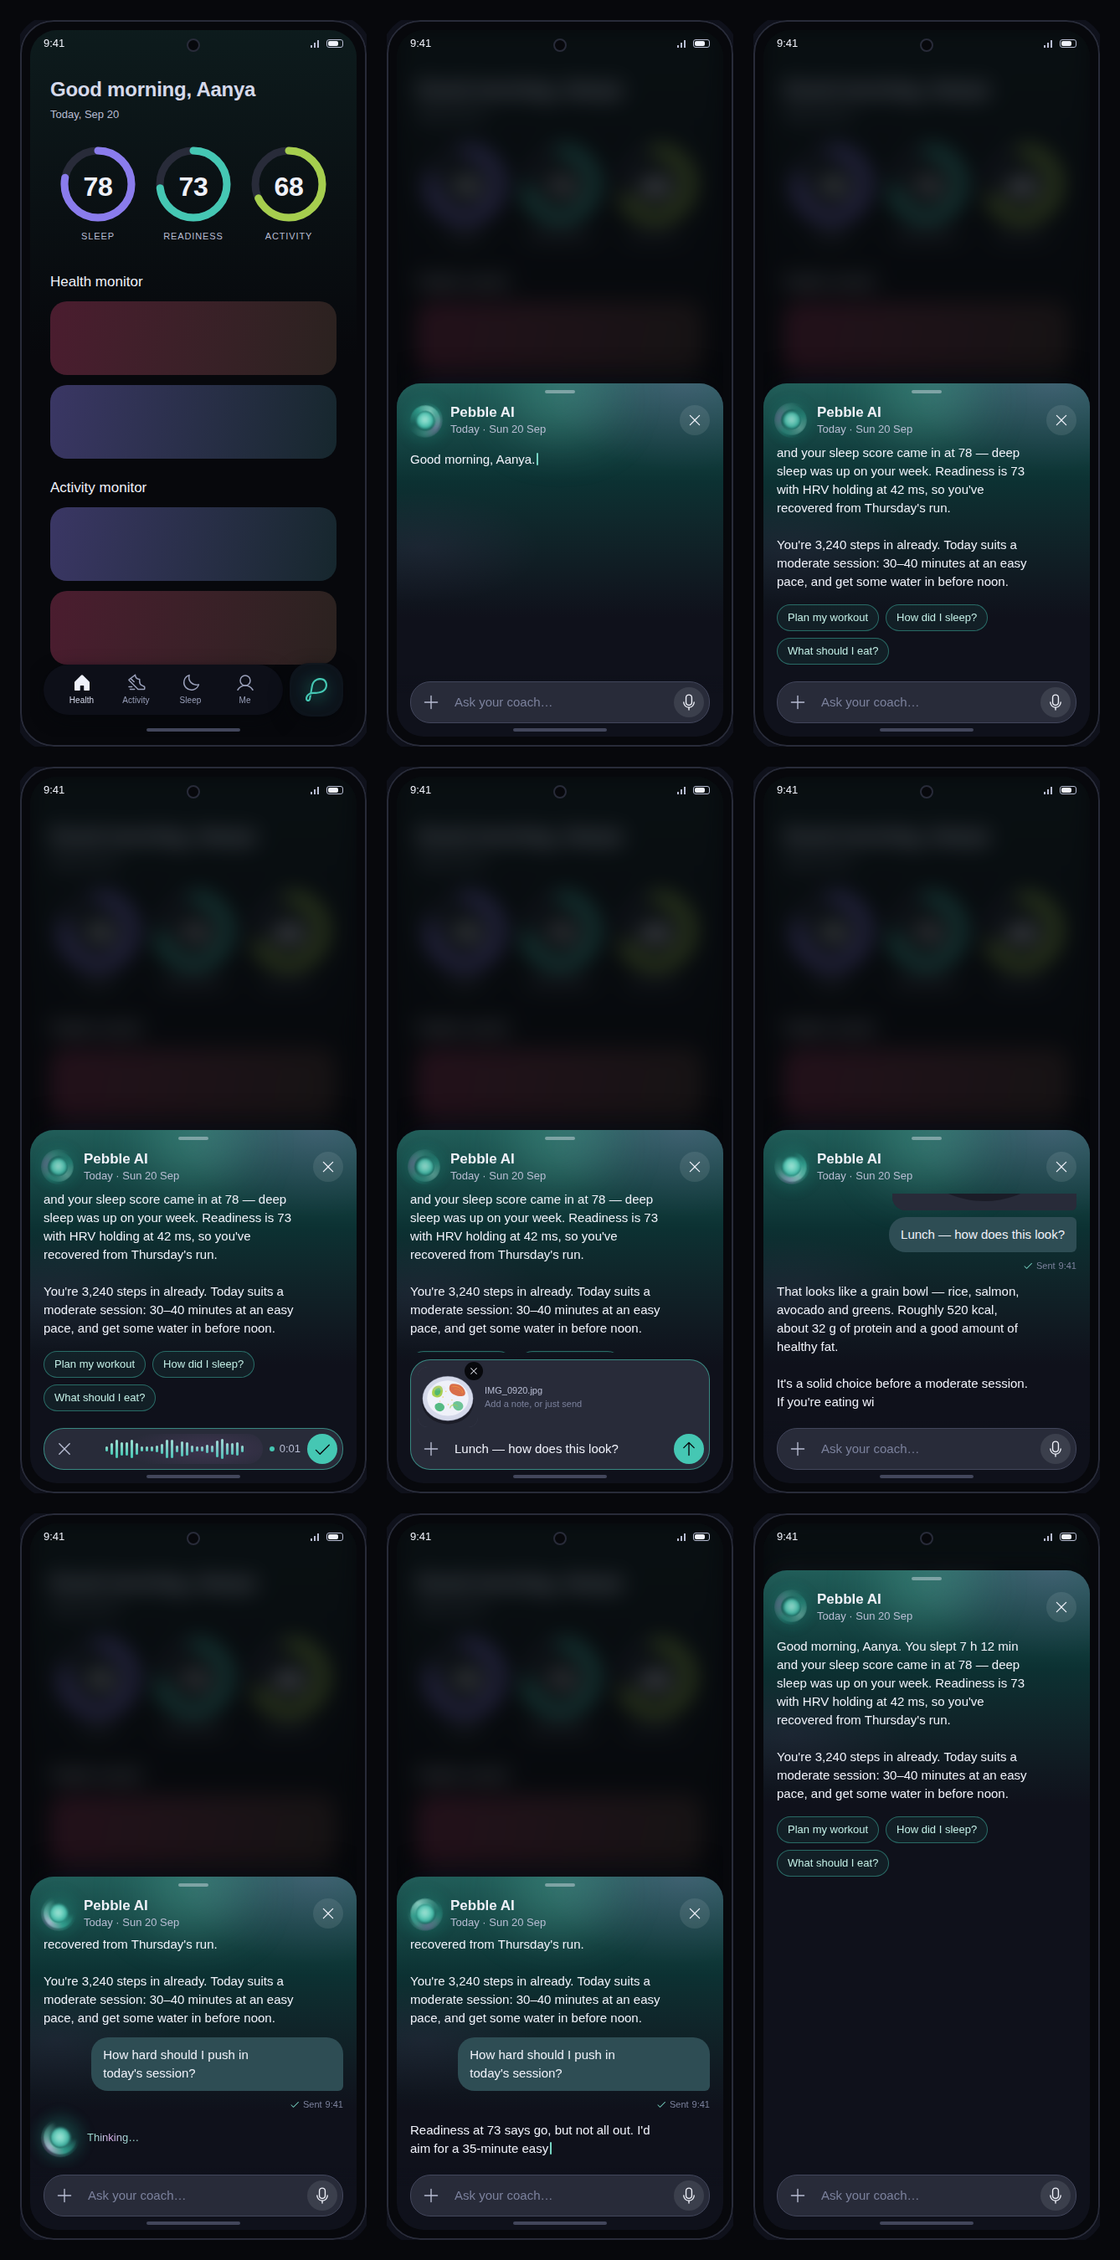
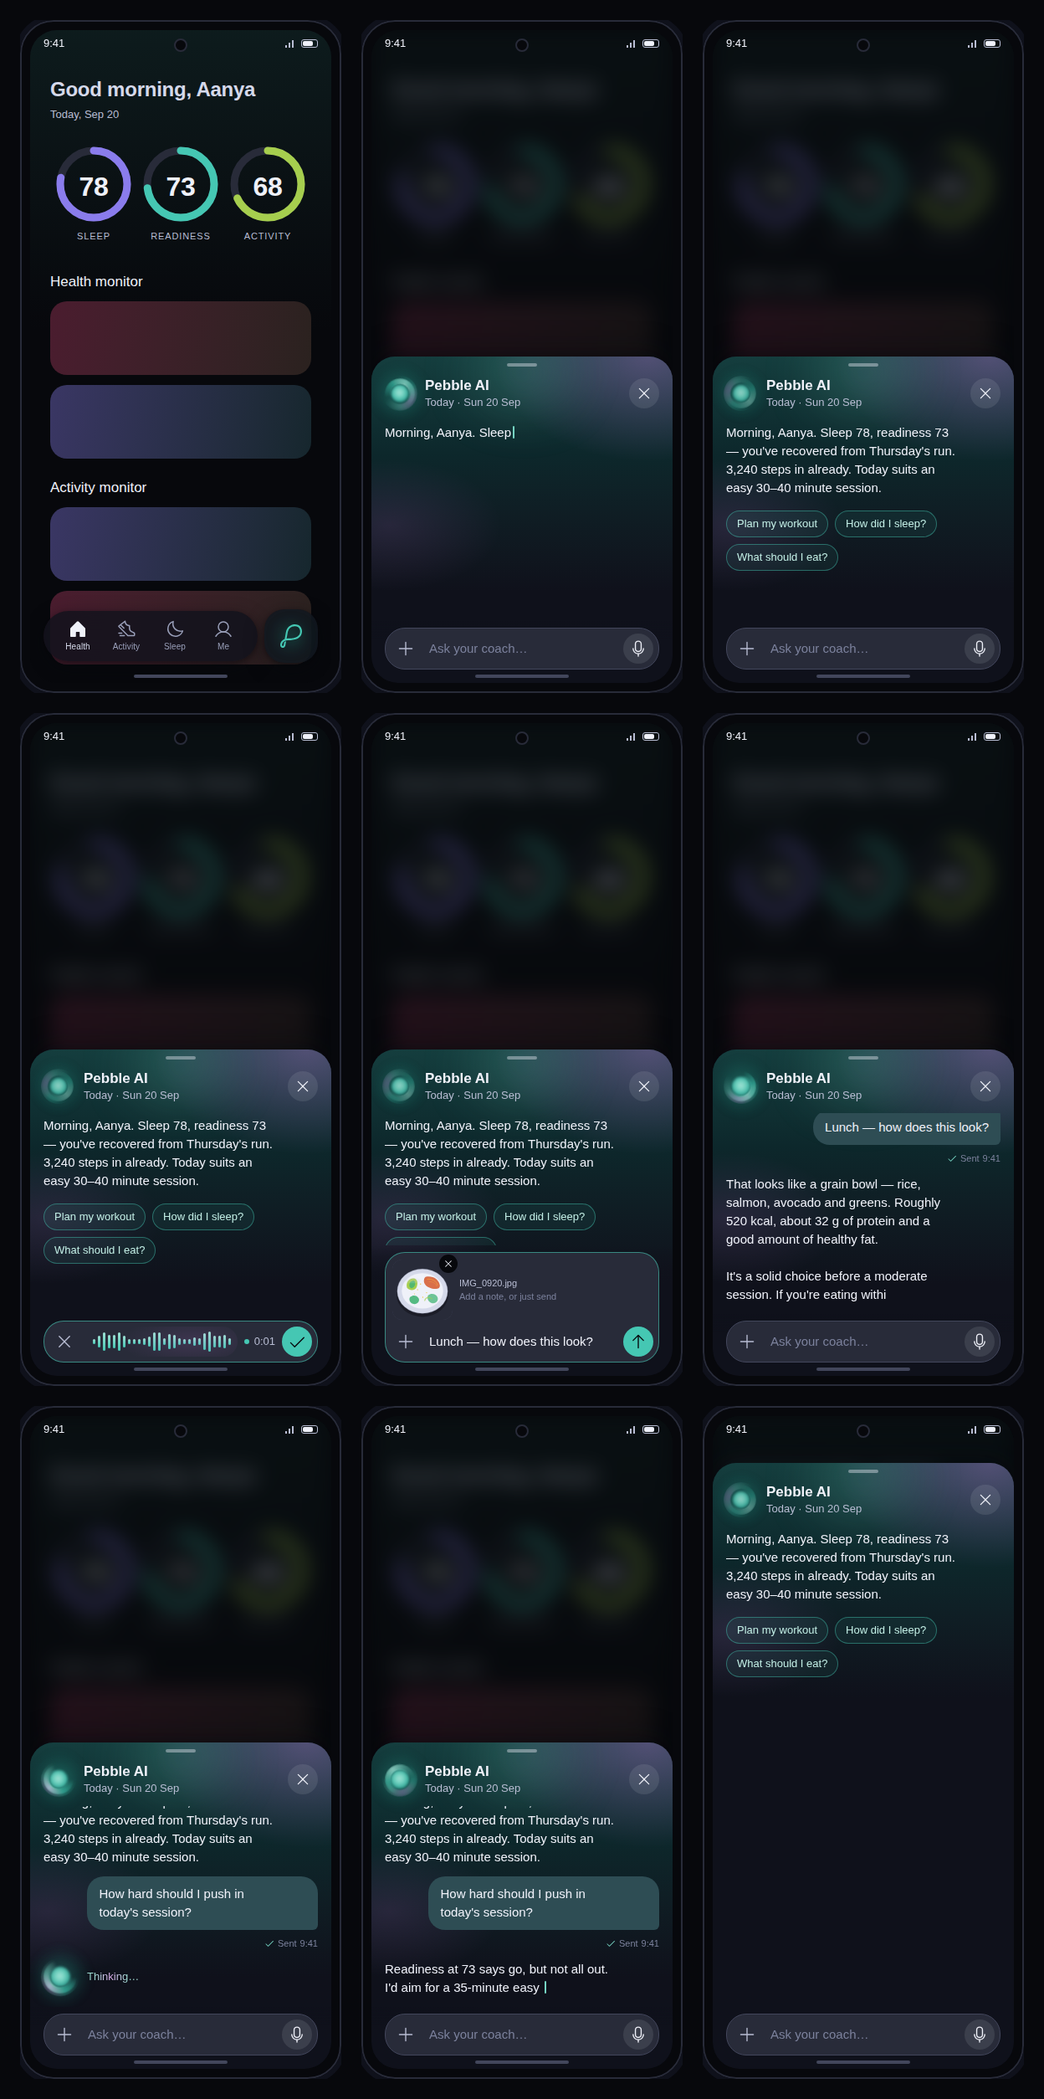
Fold owner round 1 into the AI coach prototype
Frame back to the app's 360 x 780 with the dock re-cut to fit (pill 256,
tabs 58, AI unit untouched). More orchid and less teal in the sheet's
top gradient. Opening summary shortened to one paragraph. Chips and
tap-to-record kept as decided. Spec, index, changelog, handoff and the
state overview render updated to match.

Claude-Session: https://claude.ai/code/session_01UN768iFaLiBkN9h35ZSA5W

diff --git a/AI Coach/ai-coach.html b/AI Coach/ai-coach.html
@@ -136,18 +136,16 @@ body{
 .panel .note{margin:12px 0 0;font:400 11px/16px var(--font-text);color:var(--text-3)}
 
 /* ═══ 3. PHONE ═══════════════════════════════════════════════════════════════
-   FLAG — the screen is 390 × 844 here, not the 360 × 780 the other
-   prototypes use. The navigation dock component the owner supplied is laid
-   out for a 390 frame (286 + 8 + 64 = 358 = 390 − 2 × 16); at 360 the pill
-   would need re-cutting. Using the dock's own frame keeps the component
-   untouched. Say if the app frame should win instead.
+   360 × 780, the app's frame. SETTLED 2026-09-20: the owner chose the app
+   frame over the dock component's 390, so the dock is re-cut below to fit
+   (see section 5). components/pebble-nav.html still carries the 390 cut.
    ─────────────────────────────────────────────────────────────────────────── */
 .phone{
   flex:0 0 auto;border-radius:40px;background:var(--neutral-900);
   border:2px solid var(--neutral-700);outline:6px solid var(--neutral-800);padding:10px;
 }
 .screen{
-  position:relative;width:390px;height:844px;border-radius:32px;overflow:hidden;
+  position:relative;width:360px;height:780px;border-radius:32px;overflow:hidden;
   background:var(--surface-app);
 }
 /* punch-hole selfie camera, as the other prototypes draw it */
@@ -204,18 +202,24 @@ body{
 .home .card:nth-of-type(even){background-image:linear-gradient(100deg, color-mix(in srgb, var(--crimson-400) 28%, transparent), color-mix(in srgb, var(--tangerine-400) 12%, transparent))}
 .home .sechead{margin-top:12px;font:500 17px/22px var(--font-text);color:var(--text-1)}
 
-/* ═══ 5. NAVIGATION DOCK — components/pebble-nav.html, 2026-09-20, verbatim ══
+/* ═══ 5. NAVIGATION DOCK — components/pebble-nav.html, re-cut for 360 ════════
    Two units centred on one axis, 8px apart, filling the 16px gutter exactly:
-     nav pill  286 × 60   (tabs 63 × 60, 2px between, 14px side padding)
-     AI unit    64 × 64   (overhangs the pill 2px top and bottom)
+     nav pill  256 × 60   (tabs 58 × 60, no gap, 12px side padding)
+     AI unit    64 × 64   (unchanged — the owner's Figma frame; overhangs the
+                           pill 2px top and bottom)
+     256 + 8 + 64 = 328 = 360 − 2 × 16
+   FLAG — the component's 390 cut is pill 286 / tabs 63 / 2px gap / 14px
+   padding. Bringing it to 360 takes 30px out of the pill, all from the tabs:
+   58 wide with the 2px gap dropped and the padding 14 → 12 so the tab lands
+   on a whole pixel. Material, glyphs, labels, the AI unit: untouched.
    Positioned absolutely here instead of sticky, because the home screen
-   scrolls inside the phone rather than the page. Nothing else changed.
+   scrolls inside the phone rather than the page.
    ─────────────────────────────────────────────────────────────────────────── */
 .nav-slot{
   position:absolute;left:0;right:0;bottom:24px;z-index:55;
   display:flex;justify-content:center;pointer-events:none;
 }
-.nav-dock{display:flex;align-items:center;gap:var(--space-8);width:358px;pointer-events:auto}
+.nav-dock{display:flex;align-items:center;gap:var(--space-8);width:328px;pointer-events:auto}
 .nav-dock > *{
   background:color-mix(in srgb, var(--neutral-800) 80%, transparent);   /* neutral 800 @ 80% */
   -webkit-backdrop-filter:blur(26px);          /* Figma background blur 52 */
@@ -224,12 +228,12 @@ body{
              0 2px 6px color-mix(in srgb, var(--neutral-900) 32%, transparent);
 }
 .pebble-nav{
-  display:flex;align-items:center;gap:var(--space-2);
-  width:286px;height:60px;flex:none;padding:0 14px;border-radius:var(--radius-full);
+  display:flex;align-items:center;gap:0;
+  width:256px;height:60px;flex:none;padding:0 12px;border-radius:var(--radius-full);
 }
 .pebble-tab{
   display:flex;flex-direction:column;align-items:center;justify-content:center;gap:2px;
-  width:63px;height:60px;padding:10px 0;border:0;background:none;border-radius:var(--radius-full);
+  width:58px;height:60px;padding:10px 0;border:0;background:none;border-radius:var(--radius-full);
   font-family:inherit;cursor:pointer;-webkit-tap-highlight-color:transparent;
 }
 .pebble-tab:focus-visible{outline:2px solid var(--neutral-0);outline-offset:-2px}
@@ -256,7 +260,7 @@ body{
 
 /* ═══ 6. THE CHAT SHEET ══════════════════════════════════════════════════════
    Geometry is one custom property, --sheet-h, set by the script:
-     half  = 50% of the screen (422px)      the resting state the brief asks for
+     half  = 50% of the screen (390px)      the resting state the brief asks for
      full  = screen − 56px                  leaves the status bar and a sliver
                                             of the app, so it still reads as a
                                             sheet over the app, not a new page
@@ -277,7 +281,7 @@ body{
 
 .ai-sheet{
   position:absolute;left:0;right:0;bottom:0;z-index:71;
-  height:var(--sheet-h,422px);
+  height:var(--sheet-h,390px);
   display:flex;flex-direction:column;
   border-radius:var(--radius-sheet) var(--radius-sheet) 0 0;
   background:var(--surface-card);
@@ -290,22 +294,22 @@ body{
 .ai-sheet.is-dragging{transition:none}
 .ai-sheet[hidden]{display:none}
 
-/* The top section's gradient — teal, with a hint of orchid.
-   Teal-500 → teal-700 mixed onto the card surface so it stays a dark sheet
-   rather than a bright banner, fading out into surface-card by ~260px so the
-   conversation reads on a plain surface below. The orchid sits top-right as
-   one radial wash at 18%, and a second, fainter one low-left at 8%, so the
-   teal never runs flat but never turns purple.
-   FLAG — 18% / 8% are a judgement of "subtle"; dial here if it should be
-   more or less present. */
+/* The top section's gradient — teal, with orchid breaking it.
+   Teal-600 → teal-700 mixed onto the card surface so it stays a dark sheet
+   rather than a bright banner, fading out into surface-card by ~280px so the
+   conversation reads on a plain surface below. Orchid comes in as two
+   radials: a wide wash top-right at 34% and a smaller one low-left at 16%.
+   SETTLED 2026-09-20: rev 1 was teal-500 at 52% with orchid at 18% / 8%;
+   the owner asked for more orchid and less teal, so teal dropped a step and
+   ~15 points, orchid roughly doubled. Dial the four percentages here. */
 .ai-sheet::before{
   content:"";position:absolute;left:0;right:0;top:0;height:280px;pointer-events:none;
   background:
-    radial-gradient(70% 60% at 88% 0%,  color-mix(in srgb, var(--orchid-400) 18%, transparent) 0%, transparent 62%),
-    radial-gradient(60% 40% at 8% 70%,  color-mix(in srgb, var(--orchid-500) 8%, transparent) 0%, transparent 60%),
+    radial-gradient(80% 70% at 92% 0%,  color-mix(in srgb, var(--orchid-400) 34%, transparent) 0%, transparent 64%),
+    radial-gradient(60% 45% at 6% 72%,  color-mix(in srgb, var(--orchid-500) 16%, transparent) 0%, transparent 62%),
     linear-gradient(180deg,
-      color-mix(in srgb, var(--teal-500) 52%, var(--surface-card)) 0%,
-      color-mix(in srgb, var(--teal-700) 40%, var(--surface-card)) 42%,
+      color-mix(in srgb, var(--teal-600) 40%, var(--surface-card)) 0%,
+      color-mix(in srgb, var(--teal-700) 28%, var(--surface-card)) 42%,
       var(--surface-card) 100%);
 }
 /* a faint speckle of the lighter teal near the top edge — the "glow" from
@@ -313,7 +317,7 @@ body{
 .ai-sheet::after{
   content:"";position:absolute;left:50%;top:-40px;width:220px;height:120px;margin-left:-110px;
   border-radius:50%;pointer-events:none;
-  background:radial-gradient(circle, color-mix(in srgb, var(--teal-300) 30%, transparent) 0%, transparent 70%);
+  background:radial-gradient(circle, color-mix(in srgb, var(--teal-300) 22%, transparent) 0%, transparent 70%);
   filter:blur(24px);
 }
 
@@ -464,9 +468,9 @@ body{
 }
 @keyframes blink{to{visibility:hidden}}
 
-/* suggestion chips under the summary — FLAG: a proposal, not in the brief.
-   Tapping one sends it as the user's message. They leave once anything is
-   sent. */
+/* suggestion chips under the summary — proposed 2026-09-20 and KEPT by the
+   owner the same day. Tapping one sends it as the user's message. They
+   leave once anything is sent. */
 .chips{display:flex;flex-wrap:wrap;gap:var(--space-8);padding-top:var(--space-4)}
 .chip{
   height:32px;padding:0 var(--space-12);border-radius:var(--radius-full);
@@ -610,10 +614,15 @@ body{
   .pebble-tab:active .icon,.pebble-ai:active .mark{transform:none}
 }
 
-/* narrow viewports: drop the desk, stack the panel under the phone */
+/* narrow viewports: drop the desk, stack the panel under the phone. Below
+   ~420px (a phone viewing this page) the mockup scales down to keep the 16px
+   gutter — the frame is 396 wide with its bezel. */
 @media (max-width:760px){
-  body{padding:16px 8px}
-  .panel{position:static;width:100%;max-width:410px;order:2}
+  body{padding-block:16px;padding-inline:16px;gap:16px}
+  .panel{position:static;width:100%;max-width:396px;order:2}
+}
+@media (max-width:428px){
+  .phone{transform:scale(calc((100vw - 32px) / 396));transform-origin:top center;margin-bottom:calc(-1 * (1 - (100vw - 32px) / 396) * 800px)}
 }
 </style>
 </head>
@@ -944,7 +953,9 @@ const speed = () => Number(($('input[name="sp"]:checked') || {}).value || 1);
    the text face, not Spartan: swapping typeface mid-sentence would break the
    reading line. Figures that stand alone (the recording timer, "Sent 9:41")
    do use Spartan, as the system asks. */
-const SUMMARY = "Good morning, Aanya. You slept 7 h 12 min and your sleep score came in at 78 — deep sleep was up on your week. Readiness is 73 with HRV holding at 42 ms, so you've recovered from Thursday's run.\n\nYou're 3,240 steps in already. Today suits a moderate session: 30–40 minutes at an easy pace, and get some water in before noon.";
+/* SETTLED 2026-09-20: owner asked for a short opening — one paragraph,
+   under 30 words. */
+const SUMMARY = "Morning, Aanya. Sleep 78, readiness 73 — you've recovered from Thursday's run. 3,240 steps in already. Today suits an easy 30–40 minute session.";
 const CHIPS = ['Plan my workout', 'How did I sleep?', 'What should I eat?'];
 const REPLIES = [
   { test:/sleep|slept|tired|bed|nap/i,
@@ -1176,9 +1187,9 @@ function samplePhoto(){
 
 /* voice recording — the prototype has no microphone: the waveform animates,
    the timer counts, and stopping "transcribes" a scripted sentence into the
-   field (typed in, so it reads as words arriving). FLAG: in the real app the
-   transcript would stream in while you speak; the confirm button here means
-   "stop and use it", cancel throws it away. */
+   field (typed in, so it reads as words arriving). SETTLED 2026-09-20: the
+   owner kept tap-to-record with stop-and-use (not hold-to-talk). In the real
+   app the transcript would stream in while you speak. */
 const wave = $('#wave'), recTime = $('#recTime');
 let recTimer = null, recStart = 0;
 wave.innerHTML = Array.from({length:28}, (_, i) => {

diff --git a/docs/feature-ai-coach.md b/docs/feature-ai-coach.md
@@ -1,6 +1,7 @@
 # Feature: AI coach chat
 
-Rev 1 — prototype built 2026-09-20 to the owner's brief. UX not yet approved.
+Rev 1.1 — prototype built 2026-09-20 to the owner's brief; owner's first round
+of answers folded in the same day. UX not yet approved.
 Prototype: `AI Coach/ai-coach.html` (opens by double-clicking).
 
 ## What it does
@@ -33,8 +34,10 @@ sheet between half and full height, or away.
 ## Implementation approach
 - One self-contained file; tokens mirrored as CSS custom properties (the
   file:// rule), as in every other standalone prototype.
+- Frame is the app's 360 × 780; the dock is re-cut to fit (pill 256, tabs 58,
+  no gap, 12px padding; AI unit untouched).
 - Sheet geometry is one custom property `--sheet-h`; half = 50% of the
-  screen, full = screen − 56px. Pointer events on the header do the drag;
+  screen (390px), full = screen − 56px. Pointer events on the header do the drag;
   release snaps by position and velocity.
 - The coach's presence is the Measure All orb (halo, two counter-rotating
   crescents, core) at avatar scale, on CSS keyframes. It sits in the header
@@ -52,27 +55,28 @@ sheet between half and full height, or away.
 - Control panel beside the phone jumps to ten states for review, plus a
   typing-speed switch.
 
-## Dependencies / risks — open questions for the owner
-1. **Frame size.** The dock component is cut for a 390-wide screen; the app
-   prototypes are 360. This file uses 390 so the dock stays untouched. Which
-   wins?
-2. **Icons.** Microphone, arrow-up (send) and image glyphs are written from
+## Decisions (owner, 2026-09-20)
+- **Frame:** 360 wins. The dock is re-cut in the prototype; the component
+  file still carries the 390 cut and needs the same re-cut.
+- **Voice:** tap-to-record with stop-and-use stays. No hold-to-talk.
+- **Suggestion chips:** kept.
+- **Colour:** more orchid, less teal. Top gradient is now teal-600 at 40%
+  → teal-700 at 28% onto surface-card, orchid-400 radial at 34% top-right and
+  orchid-500 at 16% low-left (was teal-500 52%, orchid 18% / 8%).
+- **Opening summary:** short — one paragraph, under 30 words.
+
+## Dependencies / risks — still open
+1. **Icons.** Microphone, arrow-up (send) and image glyphs are written from
    memory of Phosphor regular (no network this session). Verify against
    `@phosphor-icons/core` before shipping.
-3. **Suggestion chips** under the summary are a proposal, not in the brief.
-4. **Voice UX.** Tap-to-record with stop-and-use is built; hold-to-talk (press
-   and hold the mic, release to send) is the other common pattern. Say which.
-   Real transcription would stream while speaking.
-5. **Summary content.** What should the opening summary actually cover and
-   how long should it be? The sample is ~60 words in two paragraphs.
-6. **Sheet motion.** Open / snap use `duration-slow` (240 ms). A half-screen
+2. **Sheet motion.** Open / snap use `duration-slow` (240 ms). A half-screen
    sheet arguably wants ~320 ms; that would be a new motion token.
-7. **Orchid amount.** 18% top-right and 8% low-left. Dial up or down?
-8. **Numerals in prose** stay in the text face rather than Spartan, so the
+3. **Numerals in prose** stay in the text face rather than Spartan, so the
    reading line isn't broken. The recording timer and the "Sent" time do use
    Spartan.
-9. **Photo bubble.** Max 220 px, radius 16 with the bubble's 6 px corner.
-   Should a photo without a note still show the "Sent" line?
-10. **What does the coach do on the other tabs?** The sheet opens over the
-    current tab without changing it; the summary is the same everywhere for
-    now.
+4. **Photo bubble.** Should a photo without a note still show the "Sent"
+   line?
+5. **Other tabs.** The sheet opens over the current tab without changing it;
+   the summary is the same everywhere for now.
+6. **Dock component.** `components/pebble-nav.html` is the 390 cut; re-cut it
+   to 360 (pill 256 / tabs 58) once the owner confirms the tab width.

diff --git a/docs/index.md b/docs/index.md
@@ -10,7 +10,7 @@ A table of every screen/feature and its state. Keeps work unambiguous.
 | Health / Peak score | — | Not started | |
 | Me tab | `docs/feature-me-tab.md` | UX approved (rev 3) — UI not specified | 14 inner pages, 10 tab states. Read the spec before writing any Me-tab code |
 | Friends (was Family Ranking) | `docs/feature-family-ranking.md` + `Friends/friends.html` | Prototype built to rev 2 — UX not yet approved | Codes make links, not groups. First-use teaching state, podium + list + sticky you-card, friend profile, share/enter a code, friends list. 6 screens, 9 F-states, 10 components |
-| AI coach chat | `docs/feature-ai-coach.md` + `AI Coach/ai-coach.html` | Prototype built (rev 1) — UX not yet approved | Half-screen sheet from the dock's AI unit: typed summary, text / voice / photo composer, handle drag, thinking + filling states. 10 review states, 10 open questions |
+| AI coach chat | `docs/feature-ai-coach.md` + `AI Coach/ai-coach.html` | Prototype built (rev 1.1, owner round 1 folded in) — UX not yet approved | Half-screen sheet from the dock's AI unit: typed summary, text / voice / photo composer, handle drag, thinking + filling states. 10 review states, 10 open questions |
 
 When you start a feature, create `docs/feature-<name>.md` with: what it does,
 acceptance criteria (checkboxes), implementation approach, and dependencies.

diff --git a/memory/changelog.md b/memory/changelog.md
@@ -5,6 +5,21 @@ meaningful change. Format: `[date] — what changed — why/notes`
 
 ---
 
+- 2026-09-20 (rev 1.1) — Owner's first round on the AI coach chat, folded
+  into `AI Coach/ai-coach.html` and the spec. (1) 360 wins: frame back to the
+  app's 360 × 780 and the dock re-cut to fit — pill 256, tabs 58, tab gap
+  dropped, side padding 14 → 12 so the tab is a whole pixel; AI unit
+  untouched (256 + 8 + 64 = 328 = 360 − 32). Half-sheet is now 390px. FLAG:
+  `components/pebble-nav.html` still carries the 390 cut. (2) Tap-to-record
+  stays, no hold-to-talk. (3) Suggestion chips kept. (4) More orchid, less
+  teal: top gradient now teal-600 40% → teal-700 28% with orchid-400 at 34%
+  top-right and orchid-500 at 16% low-left (was teal-500 52% / orchid 18%
+  and 8%). (5) Opening summary cut to one short paragraph under 30 words.
+  Also published the prototype as a claude.ai artifact so the owner can drive
+  the state panel in the browser; the artifact is the same file minus the
+  document skeleton the host adds, and scales the phone down under 428px so
+  it fits a phone viewer with a 16px gutter.
+
 - 2026-09-20 — Built `AI Coach/ai-coach.html`, the prototype of the AI coach
   chat behind the navigation dock's AI unit, and wrote
   `docs/feature-ai-coach.md` (rev 1) alongside it. Tapping the unit raises a

diff --git a/memory/session-handoff.md b/memory/session-handoff.md
@@ -4,9 +4,12 @@
 > `AI Coach/ai-coach.html` + spec `docs/feature-ai-coach.md` (rev 1, UX not
 > yet approved). Entry point is the AI unit in the 2026-09-20 nav dock, which
 > now lives at `components/pebble-nav.html`. Ten review states in the control
-> panel. Ten open questions for the owner in the spec — frame size (390 vs
-> 360), Phosphor glyphs to verify, tap-to-record vs hold-to-talk, chips,
-> sheet motion duration, orchid amount. Nothing in `index.html` touched.
+> panel. Owner round 1 (same day) settled: 360 frame (dock re-cut in the
+> prototype, component file not yet), tap-to-record, chips kept, more orchid
+> less teal, short summary. Still open (spec §Dependencies): Phosphor glyphs
+> to verify, sheet motion duration, re-cut of `components/pebble-nav.html`.
+> Published as a claude.ai artifact for review. Nothing in `index.html`
+> touched.
 > Next: owner review → fold answers back into the prototype → decide whether
 > the chat moves into `index.html` or the homepage flow file.
 
